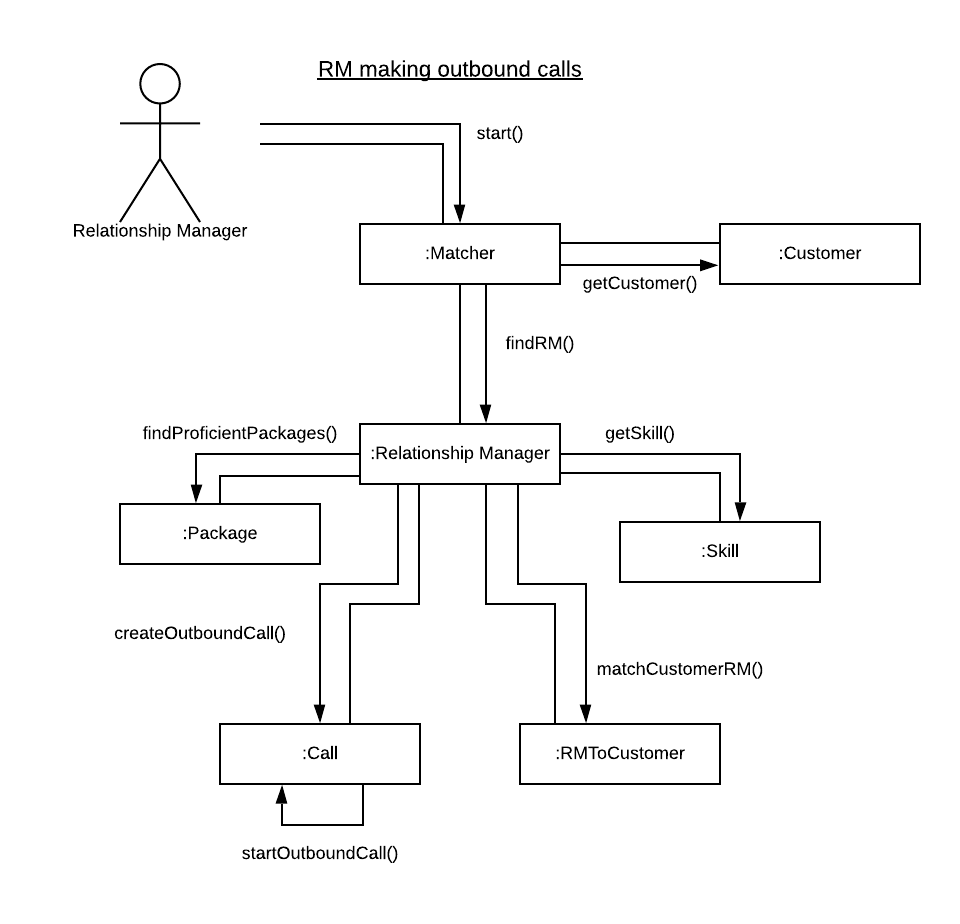
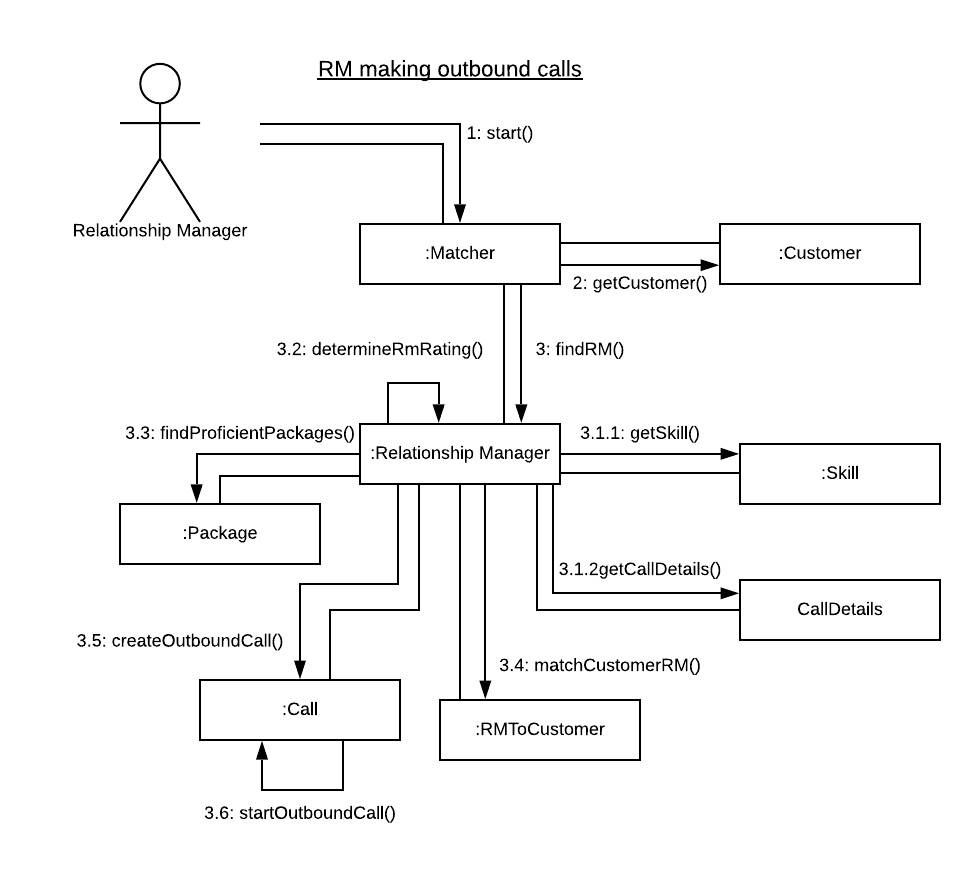
Updated collaborative diagram and added to report

diff --git a/ISDM Report.md b/ISDM Report.md
@@ -122,9 +122,10 @@ Several assumptions have been made in this project:
 ![Outbound Call Activity Diagram](diagrams/CMC_ActivityDiagram_Outbound.png)
 
 ## Class Diagram
-![Cladd Diagram](diagrams/Class_Diagram.png)
+![Class Diagram](diagrams/Class_Diagram.png)
 
 ## Collaborative Diagram
+![Collaborative Diagram](diagrams/Collaborative_Diagram_RMOutbound.png)
 
 # Competitive Advantages and Repercussions
 > Competitive advantage refers to circumstances that provide a particular company a favourable business position. This can come from lower costs, and/or differentiation from competitors.
